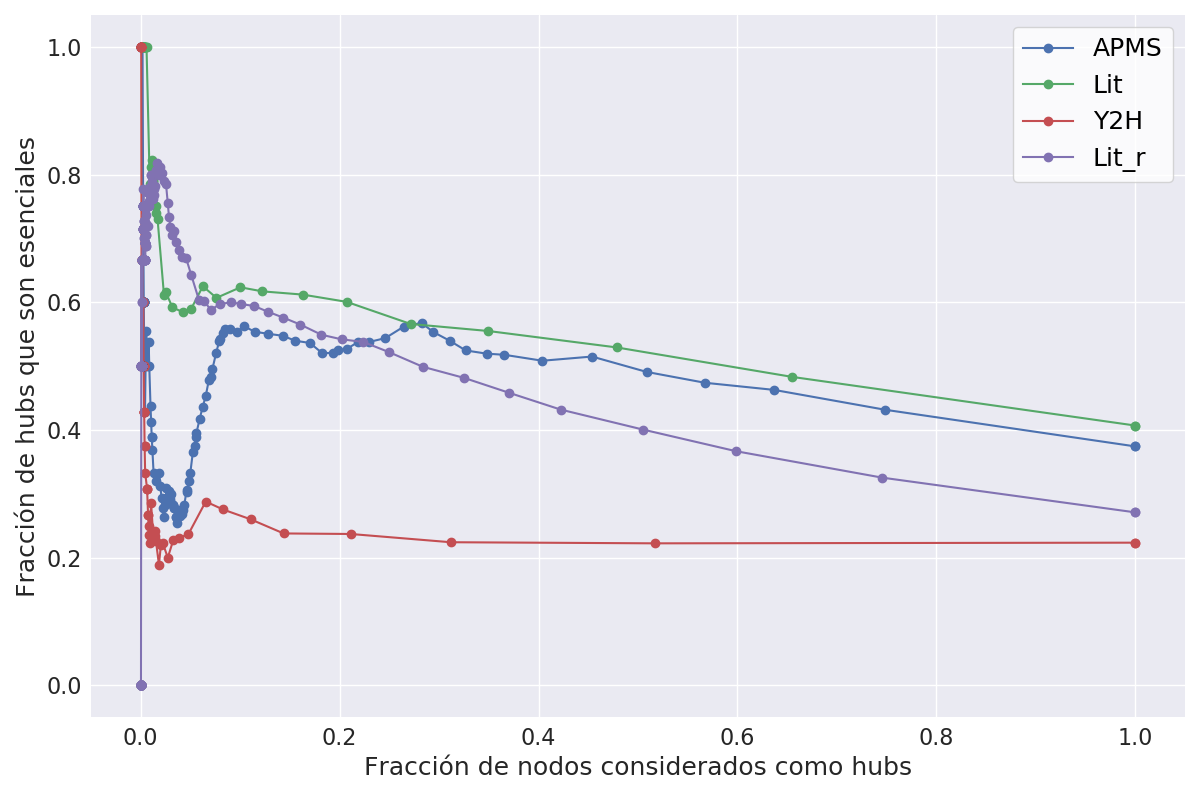
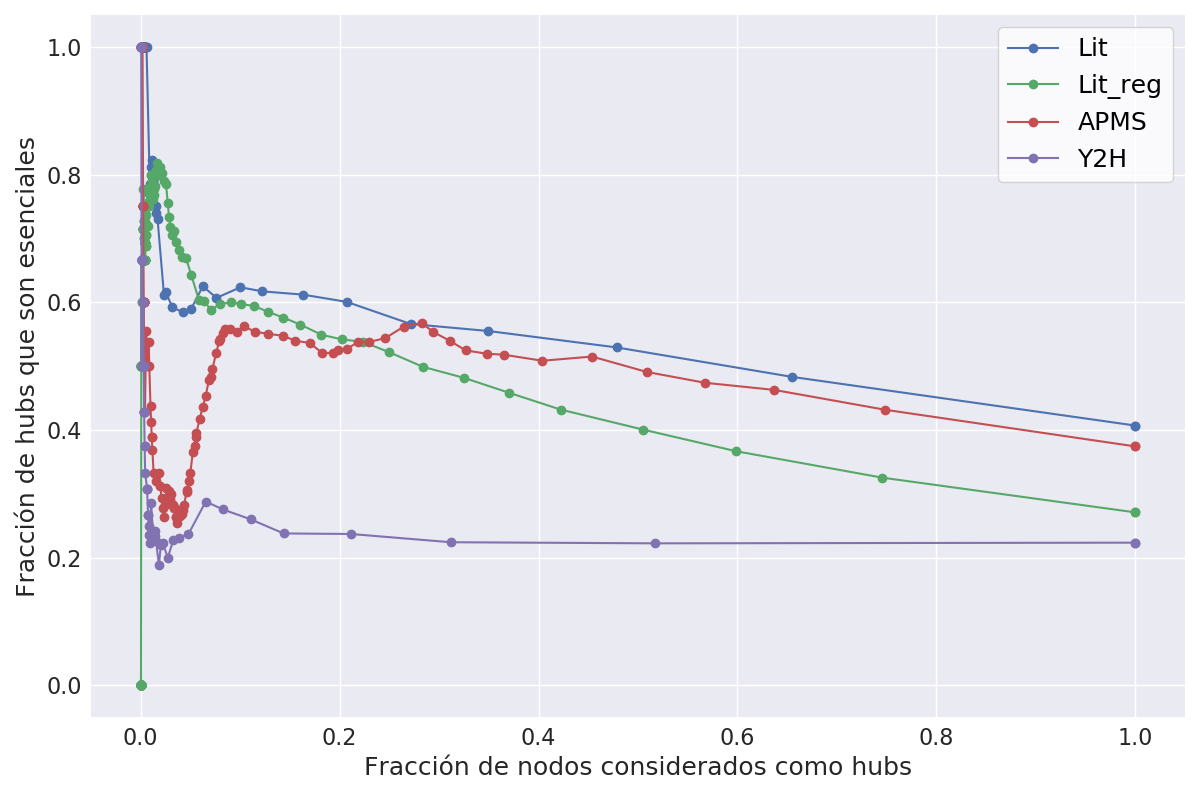
Modif mínima en figura 1.a Zotenko. Actualizo TODO list.

diff --git a/Tp2/EjB.py b/Tp2/EjB.py
@@ -128,10 +128,10 @@ fontsize = 18
 ticksize = 16
 with plt.style.context(('seaborn')):
     fig, ax = plt.subplots(figsize=(12,8))
-ax.plot(x_0, y_0, '-o', label = 'APMS')
 ax.plot(x_1, y_1, '-o', label = 'Lit')
+ax.plot(x_3, y_3, '-o', label = 'Lit_reg')
+ax.plot(x_0, y_0, '-o', label = 'APMS')
 ax.plot(x_2, y_2, '-o', label = 'Y2H')
-ax.plot(x_3, y_3, '-o', label = 'Lit_r')
 ax.legend(fontsize=fontsize)
 ax.tick_params(labelsize=ticksize)
 ax.set_xlabel('Fracción de nodos considerados como hubs',
